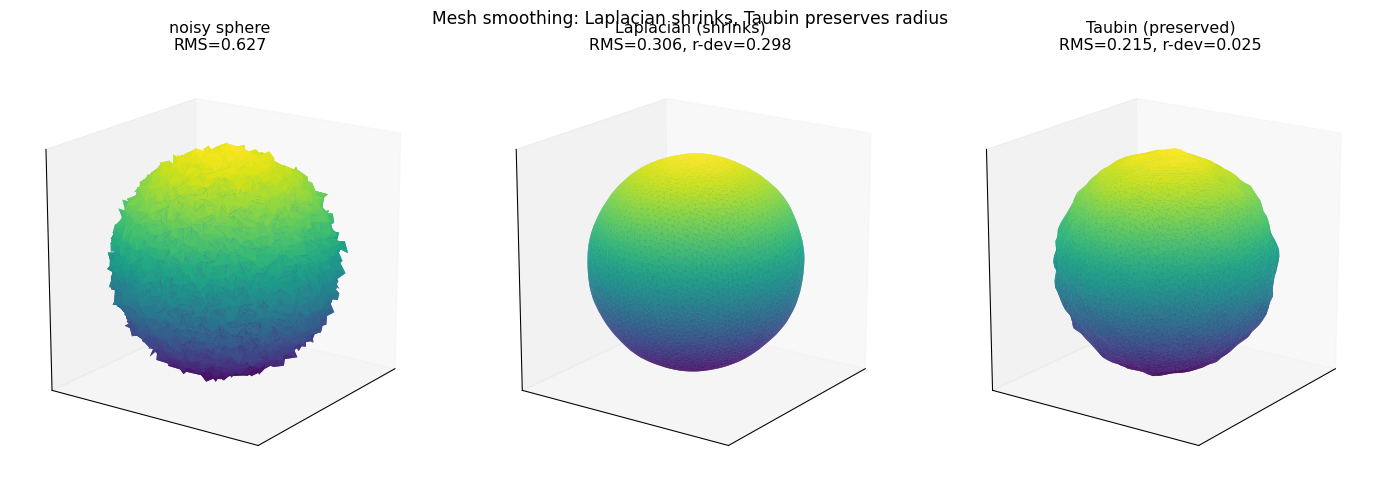
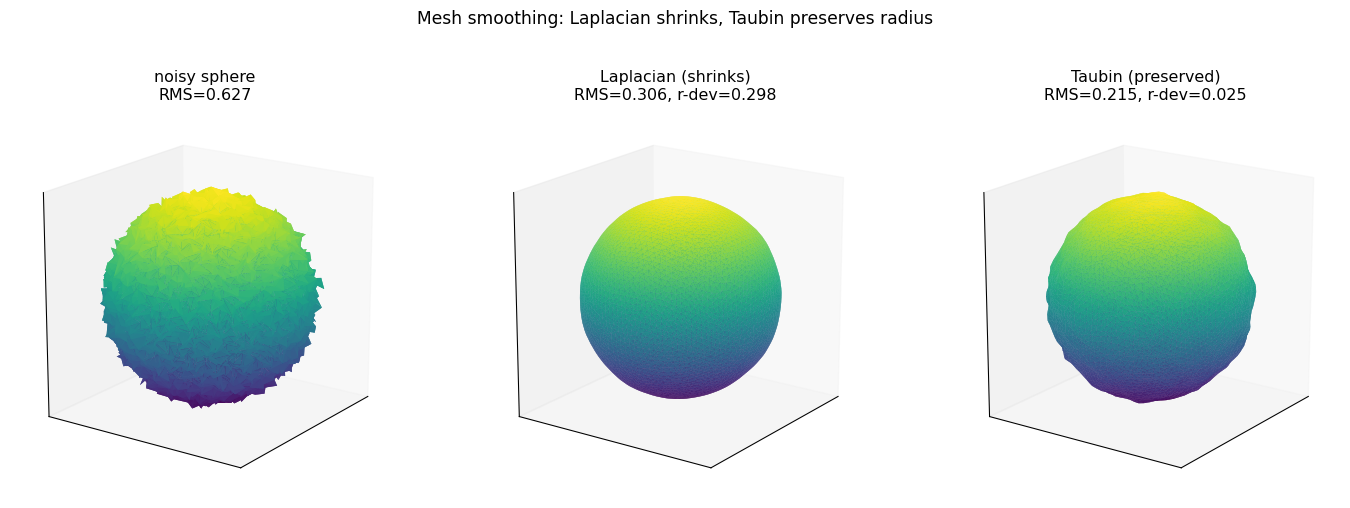
auto: watershed3d.py 編集前 (2026-08-28 12:51)

diff --git a/examples_3d/watershed3d.py b/examples_3d/watershed3d.py
@@ -1,0 +1,291 @@
+# Copyright (c) 2026 Kazufumi Furuse. Licensed under the Apache License, Version 2.0 (see LICENSE).
+"""事例: 接触した 2 つの物体を分水嶺(watershed)で 1 個ずつに割る (touching object separation).
+
+実世界の問題:
+    CT / 粉体 / 細胞 / 封入物では、独立した物体どうしが**接触したり僅かに重なったり**する。
+    このとき連結成分ラベリング(regionprops3d.label_components)は「背景で分断された塊」しか
+    分けられず、接触した 2 物体を 1 個に融合してしまう。個数(2)も間違うし、融合した塊の
+    単一重心は**どちらの物体の中心でもない中間点**に落ち、個々の体積も測れない。
+
+原理:
+    前景の距離変換(background から最も遠い=物体の芯)を取ると、凸物体では中心付近が極大に
+    なる。その極大を(最小間隔 min_distance の非最大抑制で 1 物体 1 個に間引いて)シードにし、
+    反転距離場 −dist の上でシードから分水嶺を流すと、接触面(距離の谷)が自然な切断面になり
+    2 物体へ分離できる。fullseye watershed3d の
+      - distance_peaks(binary, min_distance)         -> シード(int マーカ配列)
+      - separate_touching(binary, min_distance=...)  -> 分離ラベル(1 呼び出し)
+      - watershed_vol(binary, markers=None, ...)      -> 分離ラベル(汎用・外部シード可)
+    を使う。バックエンドは skimage 分水嶺と純 scipy(最近傍マーカ = ボロノイ分割)の 2 系統で、
+    凸物体の接触分離では両者ほぼ一致する(本例で両方を検証する)。座標系は numpy 軸順 (z,y,x)。
+
+検証(GT):
+    半径 r の 2 球を、中心間隔 < 2r で**僅かに重ねて**配置する(→ 1 連結成分に融合)。真値は
+      1) 個数 = 2
+      2) 各球の中心(z,y,x)は解析的に既知 → 分離ラベルの重心がそれに一致(< 1 voxel)
+      3) 前景を過不足なく被覆(全ラベル体積の和 = 前景ボクセル数)
+      4) 各ラベル体積が単体球(孤立時のボクセル数)に一致(重なり lens を分水嶺線で折半する
+         ぶんだけ目減りするので、相対誤差数 % 以内)
+    を確認する。skimage / scipy 両バックエンドで assert する。
+
+beat-the-null(下駄を履かせない基準):
+    素朴な連結成分ラベリング(label_components)は接触 2 球を count=1 に融合する。その単一重心は
+    2 球の中間点(=どちらの真の中心からも ~r voxel 離れる)。watershed が count=2 かつ各真の
+    中心へ ~0 voxel で当てて、この基準線を**個数でも重心でも判別的に上回る**ことを assert する。
+"""
+from __future__ import annotations
+
+import sys
+from pathlib import Path
+
+import numpy as np
+
+_REPO_ROOT = Path(__file__).resolve().parents[1]
+if str(_REPO_ROOT) not in sys.path:
+    sys.path.insert(0, str(_REPO_ROOT))
+
+from regionprops3d import label_components  # noqa: E402  (null 基準線)
+from watershed3d import (  # noqa: E402  (sys.path 調整後に import)
+    distance_peaks,
+    separate_touching,
+    watershed_vol,
+)
+
+
+def add_sphere(vol: np.ndarray, center: tuple[int, int, int], radius: int) -> None:
+    """vol(bool)に solid な球を OR で描き込む(既存前景と融合し得る)。"""
+    zz, yy, xx = np.ogrid[: vol.shape[0], : vol.shape[1], : vol.shape[2]]
+    d2 = (zz - center[0]) ** 2 + (yy - center[1]) ** 2 + (xx - center[2]) ** 2
+    vol |= d2 <= radius * radius
+
+
+def isolated_sphere_voxels(radius: int) -> int:
+    """半径 radius の孤立球のボクセル数(体積 GT の基準)。"""
+    n = 4 * radius + 4
+    v = np.zeros((n, n, n), dtype=bool)
+    add_sphere(v, (2 * radius + 2, 2 * radius + 2, 2 * radius + 2), radius)
+    return int(v.sum())
+
+
+def build_scene(radius: int = 12, overlap: int = 4):
+    """z 軸に沿って僅かに重ねた 2 球を合成し、(vol, 真の中心リスト) を返す。
+
+    中心間隔 = 2r - overlap(< 2r なので必ず連結して 1 成分に融合する)。
+    """
+    sep = 2 * radius - overlap
+    shape = (sep + 2 * radius + 8, 4 * radius + 4, 4 * radius + 4)
+    cz0 = radius + 4
+    cy = cx = 2 * radius + 2
+    centers = [(cz0, cy, cx), (cz0 + sep, cy, cx)]
+    vol = np.zeros(shape, dtype=bool)
+    for c in centers:
+        add_sphere(vol, c, radius)
+    return vol, centers
+
+
+def measure_labels(labels: np.ndarray) -> list[dict]:
+    """ラベル配列 → 各ラベルの {label, volume, centroid(z,y,x)} 一覧(背景 0 は除く)。"""
+    out = []
+    for L in range(1, int(labels.max()) + 1):
+        m = labels == L
+        vox = int(m.sum())
+        if vox == 0:
+            continue
+        c = np.argwhere(m).mean(axis=0)
+        out.append({"label": L, "volume": vox, "centroid": (float(c[0]), float(c[1]), float(c[2]))})
+    return out
+
+
+def match_to_centers(measured: list[dict], centers: list[tuple]) -> list[tuple[dict, tuple]]:
+    """測定ラベルを最近傍重心で真の中心へ一対一対応(ラベル順に依存しない)。"""
+    if len(measured) != len(centers):
+        raise ValueError(f"測定ラベル数 {len(measured)} と真値中心数 {len(centers)} が不一致。")
+    used = [False] * len(centers)
+    pairs = []
+    for m in measured:
+        mc = np.asarray(m["centroid"])
+        best_j, best_d = -1, np.inf
+        for j, g in enumerate(centers):
+            if used[j]:
+                continue
+            d = float(np.linalg.norm(mc - np.asarray(g, dtype=np.float64)))
+            if d < best_d:
+                best_d, best_j = d, j
+        if best_j < 0:
+            raise ValueError("対応づけできない測定ラベルがある(真値が枯渇)。")
+        used[best_j] = True
+        pairs.append((m, centers[best_j]))
+    return pairs
+
+
+def evaluate(labels: np.ndarray, centers: list[tuple], fg: int,
+             single_vox: int) -> tuple[int, float, float]:
+    """分離結果を真値と突き合わせ (count, max_centroid_err, max_vol_rel_err) を返す。"""
+    props = measure_labels(labels)
+    count = len(props)
+    total = sum(p["volume"] for p in props)
+    if total != fg:
+        raise ValueError(f"ラベルが前景を被覆していない: 総ラベル体積 {total} != 前景 {fg}")
+    if count != len(centers):
+        return count, float("inf"), float("inf")
+    pairs = match_to_centers(props, centers)
+    max_cen = max(
+        float(np.linalg.norm(np.asarray(m["centroid"]) - np.asarray(g))) for m, g in pairs
+    )
+    max_vol = max(abs(m["volume"] - single_vox) / single_vox for m, _ in pairs)
+    return count, max_cen, max_vol
+
+
+def render_png(vol, dist_mip, markers, ws_labels, centers, out_path) -> bool:
+    """接触2球の MIP を「入力(連結成分=1色)→距離+シード→分水嶺(2色)」で並置し PNG 保存。
+
+    matplotlib が無ければ False を返す(GT アサートは呼び出し側で別途必須)。
+    """
+    try:
+        import matplotlib
+        matplotlib.use("Agg")
+        import matplotlib.pyplot as plt
+        from matplotlib.colors import ListedColormap
+    except ImportError:
+        return False
+
+    # x 軸を投影(axis=2)→ (z,y) 断面 MIP。2 球は z 方向に並ぶので両方写る。
+    bin_mip = vol.max(axis=2)
+    ws_mip = ws_labels.max(axis=2)                      # 各 (z,y) の代表ラベル
+    seed_zy = np.argwhere(markers.max(axis=2) > 0)      # 投影後のシード位置
+
+    fig, axes = plt.subplots(1, 3, figsize=(12, 5.2))
+    fig.suptitle("接触2球の分離: 連結成分は1個に融合 → 距離変換シードの分水嶺で2個へ",
+                 fontsize=12)
+
+    # (a) 入力 = 連結成分(count=1)。全前景を単色で。
+    axes[0].imshow(bin_mip, cmap="gray", origin="lower", interpolation="nearest")
+    axes[0].set_title("(a) 入力 MIP  連結成分 = 1(融合)")
+
+    # (b) 距離変換 + 抽出シード。
+    axes[1].imshow(dist_mip, cmap="viridis", origin="lower", interpolation="nearest")
+    if len(seed_zy):
+        axes[1].scatter(seed_zy[:, 1], seed_zy[:, 0], c="red", marker="x", s=120,
+                        linewidths=2.5, label="シード(距離極大)")
+        axes[1].legend(loc="upper right", fontsize=8)
+    axes[1].set_title("(b) 距離変換 + シード(芯)")
+
+    # (c) 分水嶺ラベル(2色)+ 真の中心。
+    lab_cmap = ListedColormap([(0.06, 0.06, 0.09),   # 0: 背景
+                               (0.90, 0.36, 0.22),   # 1
+                               (0.20, 0.55, 0.90)])  # 2
+    axes[2].imshow(ws_mip, cmap=lab_cmap, vmin=0, vmax=2, origin="lower",
+                   interpolation="nearest")
+    cy = [c[1] for c in centers]
+    cz = [c[0] for c in centers]
+    axes[2].scatter(cy, cz, facecolors="none", edgecolors="white", marker="o",
+                    s=160, linewidths=2.0, label="真の中心")
+    axes[2].legend(loc="upper right", fontsize=8)
+    axes[2].set_title("(c) 分水嶺で分離 = 2(重心一致)")
+
+    for ax in axes:
+        ax.set_xlabel("y"); ax.set_ylabel("z")
+
+    out_path.parent.mkdir(parents=True, exist_ok=True)
+    fig.tight_layout(rect=(0, 0, 1, 0.95))
+    fig.savefig(out_path, dpi=130)
+    plt.close(fig)
+    return True
+
+
+def main() -> int:
+    radius = 12
+    overlap = 4
+    min_distance = 8.0
+    vol, centers = build_scene(radius=radius, overlap=overlap)
+
+    # --- 入力の健全性チェック(退化入力で偽の成功を出さない) ---
+    if vol.ndim != 3:
+        raise ValueError(f"3D ボリュームが必要 (ndim={vol.ndim})。")
+    if not vol.any():
+        raise ValueError("前景ボクセルが 0 個(退化入力)。")
+    if len(centers) < 2:
+        raise ValueError("beat-the-null が意味を持つには物体数 >= 2 が必要。")
+
+    fg = int(vol.sum())
+    single_vox = isolated_sphere_voxels(radius)
+    print(f"[GT] shape={vol.shape}, 前景={fg} voxel, 物体数(true)={len(centers)}, "
+          f"孤立球 r={radius} = {single_vox} voxel")
+    for i, c in enumerate(centers):
+        print(f"[GT] sphere {i}: center(z,y,x) = ({c[0]}, {c[1]}, {c[2]})")
+
+    # --- beat-the-null 基準線: 連結成分ラベリング ---
+    null_labels, null_n = label_components(vol, connectivity=26)
+    null_centroid = np.argwhere(null_labels > 0).mean(axis=0)
+    null_min_dist = min(
+        float(np.linalg.norm(null_centroid - np.asarray(c, dtype=np.float64))) for c in centers
+    )
+    print(f"[null]  label_components -> count = {null_n} (融合), "
+          f"single-centroid(z,y,x) = ({null_centroid[0]:.2f}, {null_centroid[1]:.2f}, "
+          f"{null_centroid[2]:.2f}), min dist to any true center = {null_min_dist:.2f} voxel")
+
+    # --- シード抽出(距離変換の極大)---
+    markers = distance_peaks(vol, min_distance=min_distance)
+    n_seeds = int(markers.max())
+    print(f"[seed]  distance_peaks(min_distance={min_distance}) -> {n_seeds} 個 "
+          f"@ {np.argwhere(markers > 0).tolist()}")
+
+    # --- watershed(skimage / scipy 両バックエンドを検証)---
+    results = {}
+    for method in ("skimage", "scipy"):
+        labels = separate_touching(vol, min_distance=min_distance, method=method)
+        count, cen_err, vol_err = evaluate(labels, centers, fg, single_vox)
+        results[method] = (labels, count, cen_err, vol_err)
+        print(f"[watershed:{method}] count = {count}, max centroid err = {cen_err:.4f} voxel, "
+              f"max volume rel-err = {vol_err * 100:.2f}%")
+
+    # 外部シード経路(watershed_vol に markers を直接渡す)も一貫することを確認。
+    lab_ext = watershed_vol(vol, markers=markers, method="auto")
+    _, ext_count, ext_cen, _ = evaluate(lab_ext, centers, fg, single_vox)
+    print(f"[watershed:auto+markers] count = {ext_count}, max centroid err = {ext_cen:.4f} voxel")
+
+    # --- GT アサーション(両バックエンド)---
+    assert null_n == 1, f"null(連結成分)が 1 でない: {null_n}(シーン設計を見直す)"
+    assert n_seeds == len(centers), f"シード数が物体数と不一致: {n_seeds} vs {len(centers)}"
+
+    best_cen_err = min(r[2] for r in results.values())
+    for method, (labels, count, cen_err, vol_err) in results.items():
+        assert count == len(centers), \
+            f"[{method}] 分離数が真値と不一致: {count} vs {len(centers)}"
+        assert cen_err < 1.0, f"[{method}] 重心誤差が 1 voxel 以上: {cen_err:.4f}"
+        assert vol_err < 0.05, f"[{method}] 体積相対誤差が 5% 以上: {vol_err * 100:.2f}%"
+        # beat-the-null: 個数でも重心でも判別的に上回る
+        assert count != null_n, f"[{method}] 個数が null と同じ(分離できていない)"
+        assert cen_err < null_min_dist, \
+            (f"[{method}] 重心誤差 {cen_err:.4f} が null の距離 {null_min_dist:.4f} "
+             f"を下回れていない(beat-the-null 失敗)")
+
+    assert ext_count == len(centers), f"外部シード経路の分離数が不一致: {ext_count}"
+    assert ext_cen < 1.0, f"外部シード経路の重心誤差が大きい: {ext_cen:.4f}"
+    # null が判別に足る余地(単一重心が真の中心から十分離れている)を持つこと
+    assert null_min_dist > 1.0, f"null の単一重心が真の中心に近すぎて判別にならない: {null_min_dist:.4f}"
+
+    # --- デモ PNG(結果を描画)---
+    dist_mip = None
+    try:
+        from scipy.ndimage import distance_transform_edt as _edt
+        dist_mip = _edt(vol).max(axis=2)
+    except ImportError:
+        pass
+    out_png = _REPO_ROOT / "examples_3d" / "_gallery" / "watershed3d.png"
+    png_ok = False
+    if dist_mip is not None:
+        png_ok = render_png(vol, dist_mip, markers, results["skimage"][0], centers, out_png)
+    if png_ok:
+        print(f"[png]   saved -> {out_png}")
+    else:
+        print("[png]   matplotlib 不在のため画像はスキップ(GT アサートは実施済み)")
+
+    print(f"PASS: 接触2球を watershed で {results['skimage'][1]} 個に分離。"
+          f"skimage/scipy 両バックエンドで各重心を真の中心へ最大 {best_cen_err:.3f} voxel、"
+          f"各体積を単体比 <5% 誤差で復元。連結成分(null)は count=1 に融合しその単一重心は"
+          f"真の中心から {null_min_dist:.2f} voxel ずれる — 個数(2 vs 1)でも重心でも判別的に上回った")
+    return 0
+
+
+if __name__ == "__main__":
+    raise SystemExit(main())

diff --git a/examples_3d/mesh_smooth.py b/examples_3d/mesh_smooth.py
@@ -104,8 +104,8 @@ def save_png(verts_list, faces, titles, path: Path) -> bool:
         ax.set_xticks([]); ax.set_yticks([]); ax.set_zticks([])
         ax.view_init(elev=18, azim=35)
     fig.suptitle("Mesh smoothing: Laplacian shrinks, Taubin preserves radius",
-                 fontsize=13)
-    fig.tight_layout()
+                 fontsize=13, y=1.02)
+    fig.tight_layout(rect=(0, 0, 1, 0.94))
     path.parent.mkdir(parents=True, exist_ok=True)
     fig.savefig(path, dpi=95, bbox_inches="tight")
     plt.close(fig)
